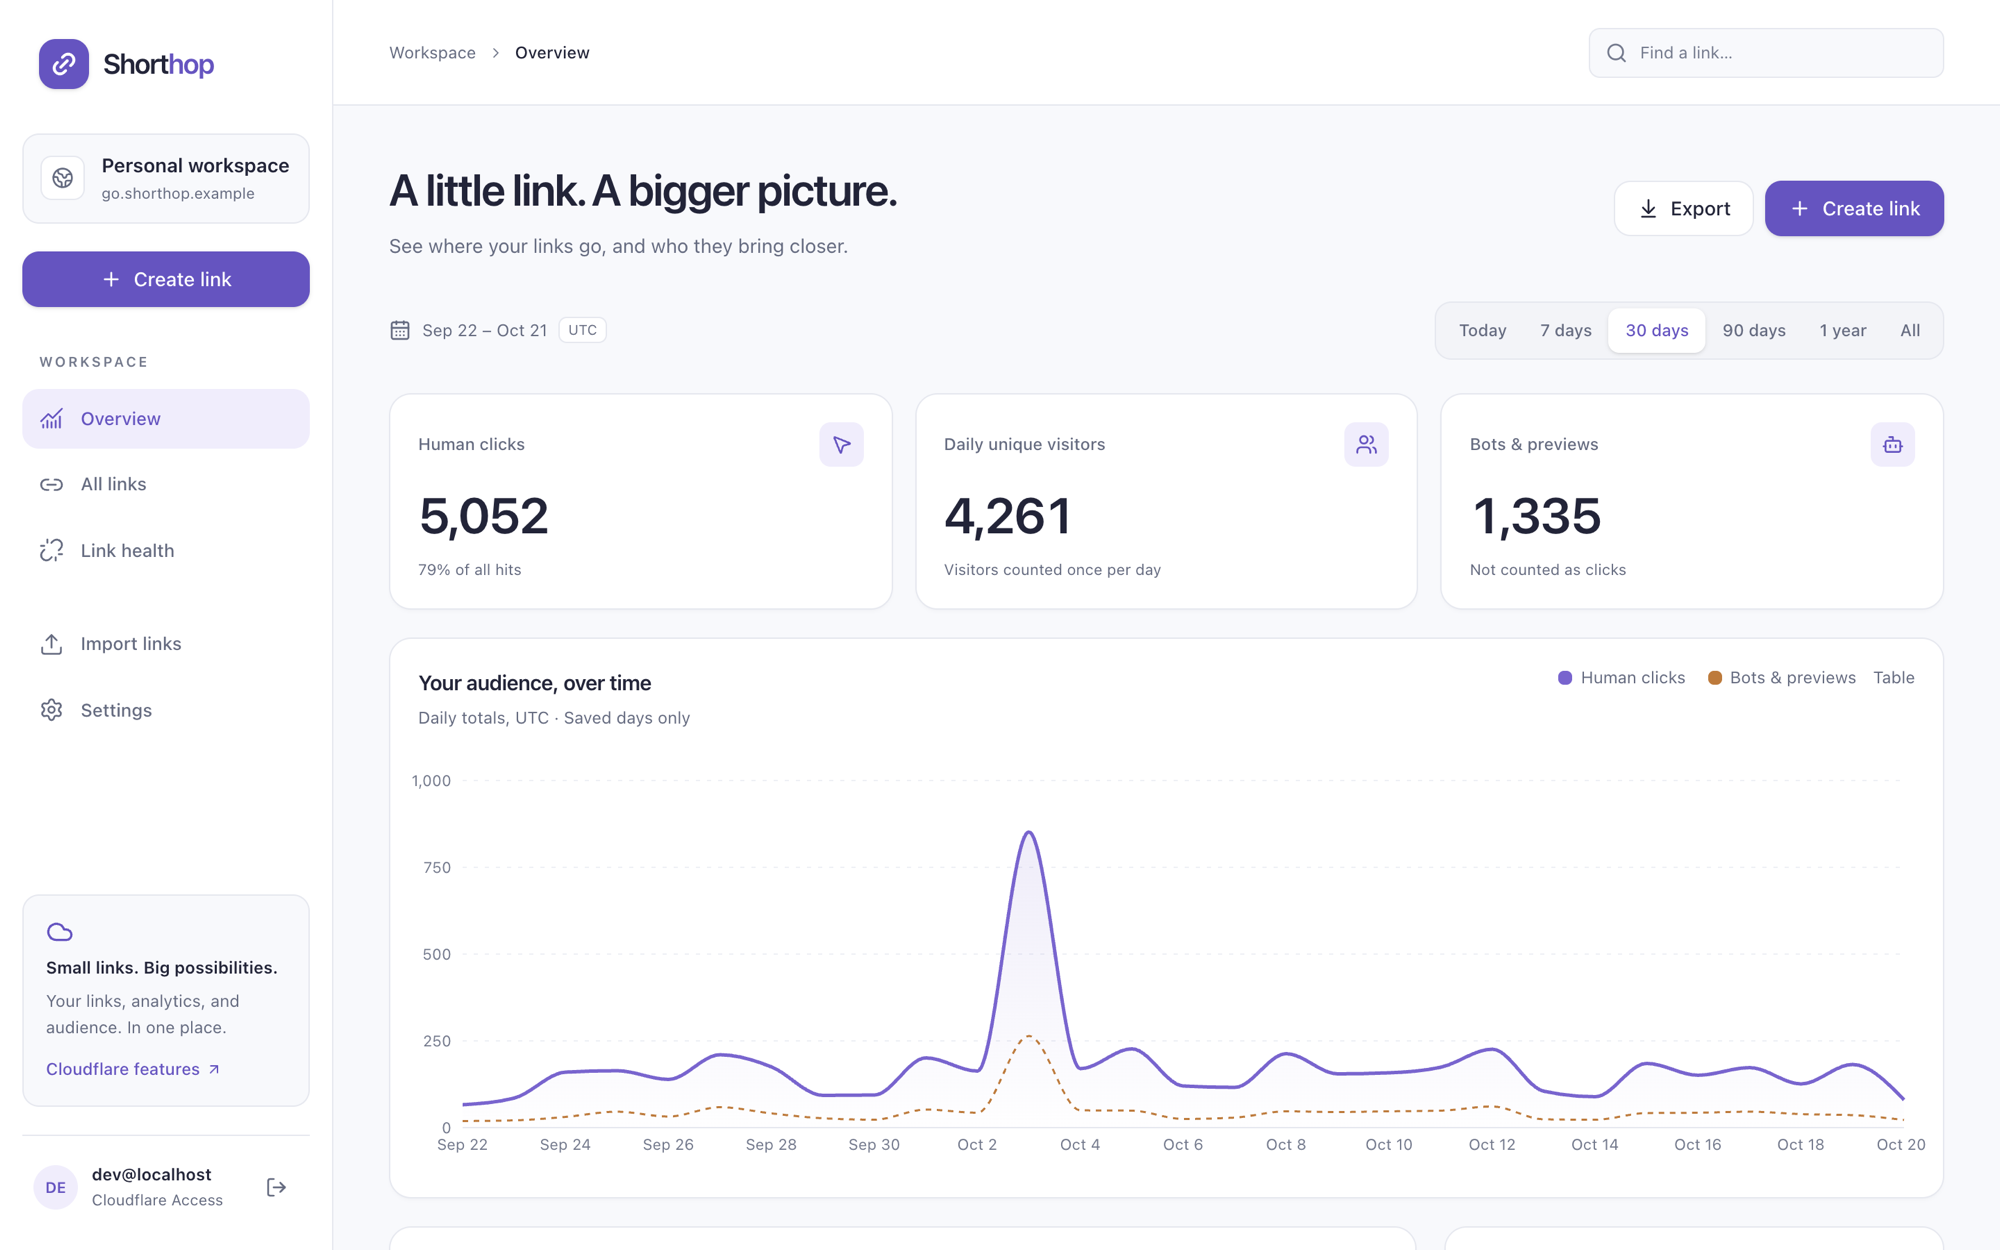
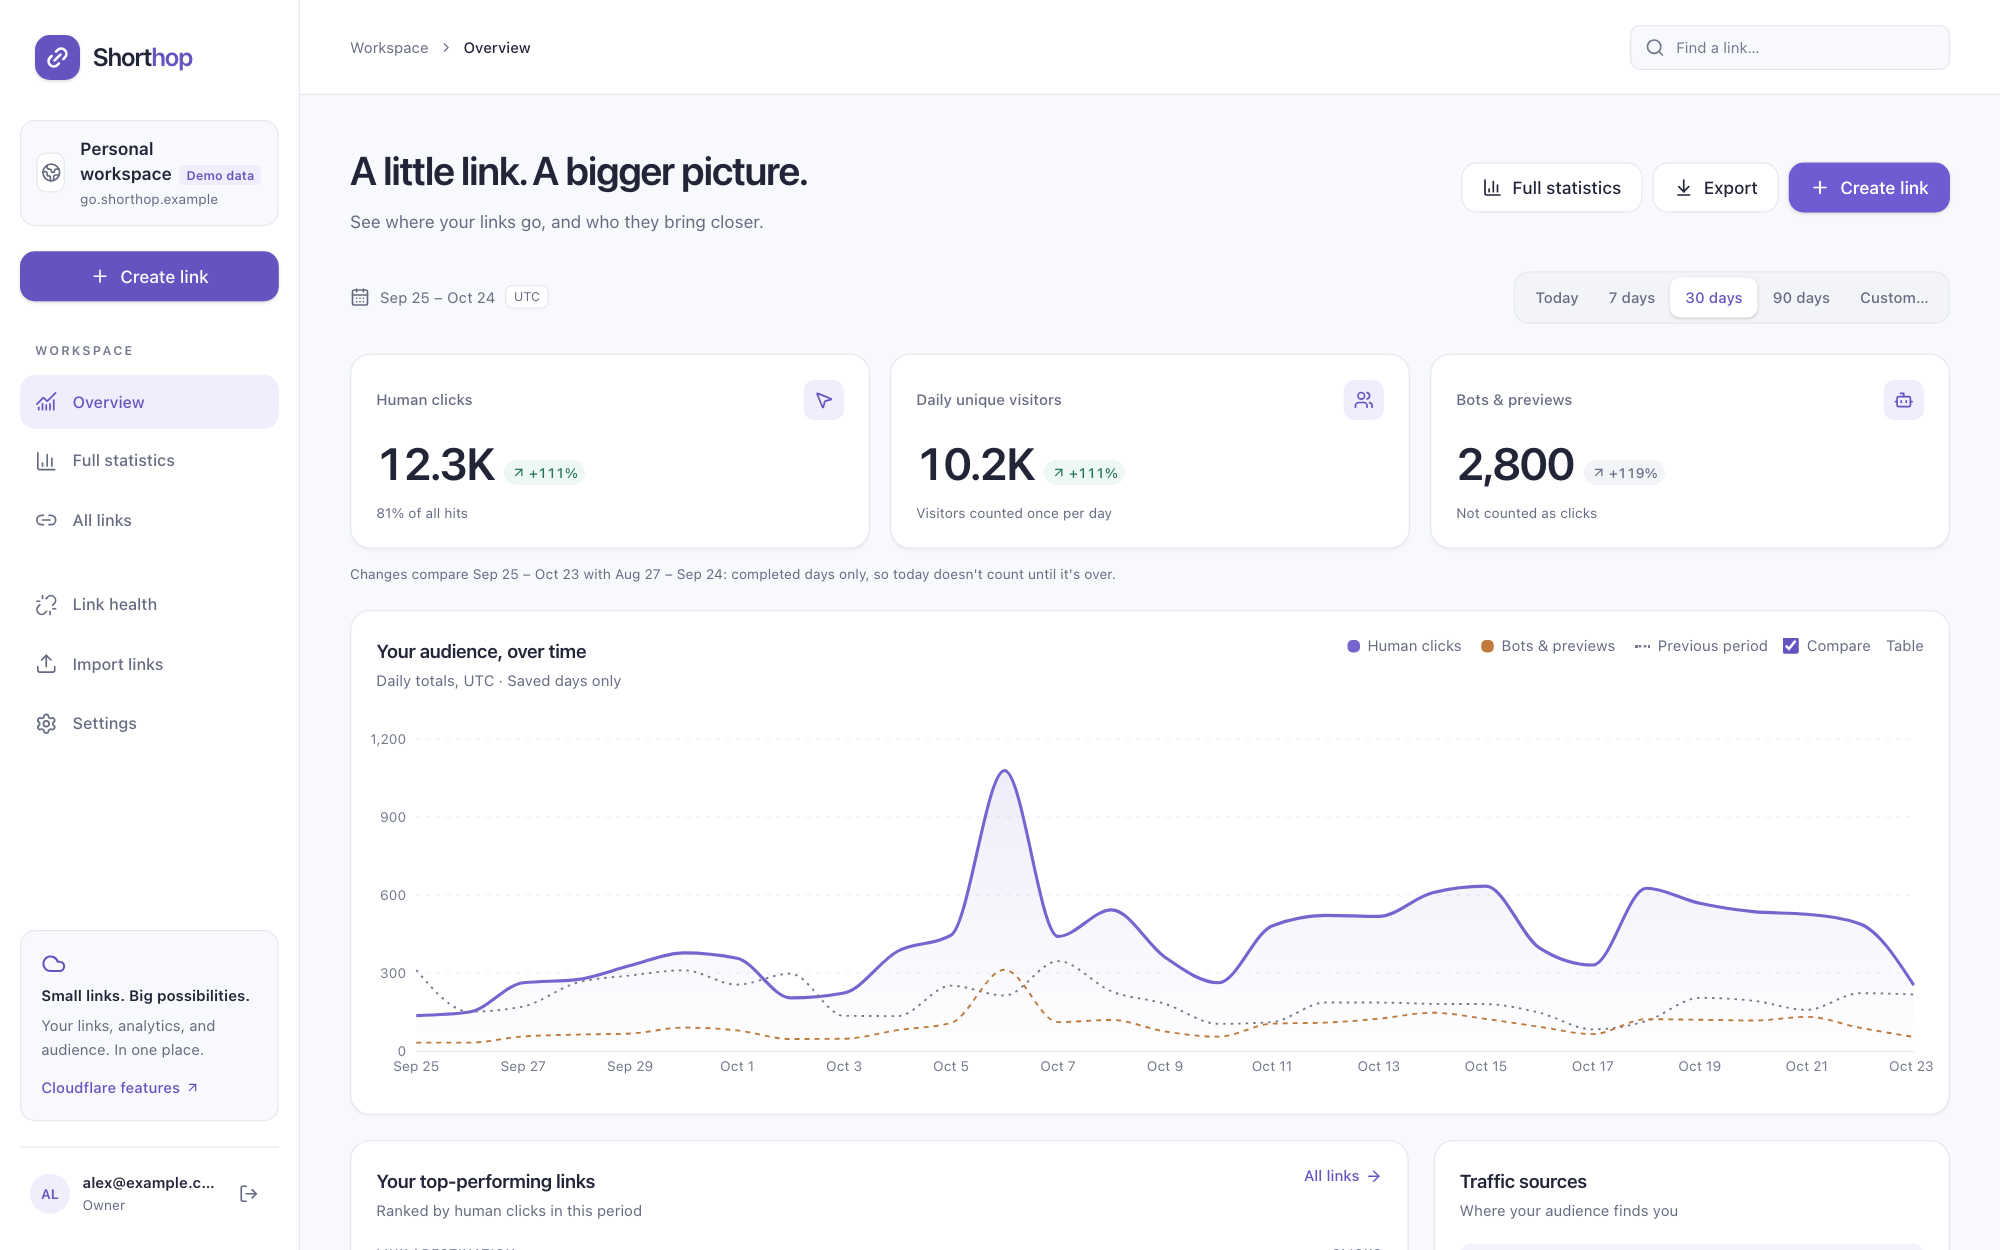
README: features grouped by area and new screenshots of every part of the admin

diff --git a/README.md b/README.md
@@ -6,36 +6,71 @@
 
 [![Deploy to Cloudflare](https://deploy.workers.cloudflare.com/button)](https://deploy.workers.cloudflare.com/?url=https://github.com/jntegz/shorthop)
 
-A personal URL shortener that runs on one Cloudflare Worker. Short links on your own domains, click analytics without a paid geo service, a private admin, and a weekly email digest. For most personal use it fits inside Cloudflare's free allowances.
+A personal URL shortener that runs on one Cloudflare Worker. Short links on your own domains, click analytics without cookies or a paid geo service, smart routing, QR codes, destination checks, and a private admin for you and the people you invite. For most personal use it fits inside Cloudflare's free allowances.
 
-**Shorthop is built primarily for Cloudflare.** It uses Workers, Workers KV, D1, Analytics Engine, Cloudflare Access and Cloudflare Email Service directly; it isn't a portable app with a Cloudflare adapter. You need a Cloudflare account and at least one domain on it.
+**Shorthop is built primarily for Cloudflare.** It uses Workers, Workers KV, D1, Analytics Engine, Durable Objects, Cloudflare Access and Cloudflare Email Service directly; it isn't a portable app with a Cloudflare adapter. You need a Cloudflare account and at least one domain on it.
 
-![The Shorthop dashboard: clicks, unique visitors and bots over the last 30 days](docs/images/dashboard.png)
+![The Shorthop overview: human clicks, daily unique visitors and bots over 30 days, compared with the previous period](docs/images/dashboard.png)
+
+[Features](#features) · [Screenshots](#screenshots) · [Quick start](#quick-start) · [Documentation](#documentation) · [Costs](#costs) · [Security model](#security-model) · [FAQ](#faq)
+
+## Features
+
+### Links
 
 - **Fast redirects:** one KV read, then a `302`. Analytics is written after the response, so it never slows down or breaks a click.
-- **Analytics:** country, region, city, device, OS, browser, referrer, source tag and language per click. Humans, bots and misses are counted separately. No IP addresses or cookies are stored. Unique visitors are counted with a daily hash whose random salt is deleted once the day is over. See [visitor privacy](docs/PRIVACY.md).
-- **History:** a daily job saves each day into D1, so stats outlive Analytics Engine's 90-day retention.
-- **Admin at `/_admin`:** create, edit, disable, expire, tag and search links; per-link stats and a full statistics page, for any date range, compared with the previous period; CSV import and export; a report of missed slugs; a custom 404 page; a page for links that no longer work, pointing visitors to a replacement; a System status page with setup checks.
-- **Link history:** every change is saved as a version with who made it, and any earlier version can be restored. Deleted links can be brought back for 90 days.
+- **Several domains:** each short domain has its own slugs and stats. The admin can live on the primary domain or on a separate host.
+- **Admin at `/_admin`:** create, edit, disable, expire, tag and search links, with custom slugs and a live preview of the short link.
 - **Smart routing:** rules by device (iPhone & iPad, Android, desktop, other) and country, first match wins, with A/B splits across up to 10 weighted destinations. A simulator in the editor, and results per rule and variant on the link page. Bots and previews get the default destination; no cookies.
 - **Social previews:** your own title, description and image for LinkedIn, Slack, X, iMessage and other link previews, with mockups while you edit.
 - **UTM builder:** one field per parameter, saved presets, and a preview of the URL visitors land on.
-- **QR studio:** colours with a contrast check, dot and corner shapes, a logo, frames with a caption, a live scan test, SVG or PNG up to 4096 px, print sheets, and a ZIP of every link's code.
+- **QR studio:** colours with a contrast check, dot and corner shapes, a logo, frames with a caption, a live scan test, SVG or PNG up to 4096 px, print sheets, and a ZIP of every link's code. Scans count as their own source.
 - **Password-protected links and click limits:** visitors enter a password first, or a link stops after a set number of clicks, counted exactly by a Durable Object. Bots and previews don't count.
-- **Link health:** destination checks for the links you pick (**Check that the destination works**, off by default), once you turn automatic checking on and choose how often. A destination that fails 3 times in a row sends one email and gets a Fix dialog.
-- **Webhooks:** signed events for links created, changed or deleted, destinations down or back, and click milestones, with retries and a delivery log.
+- **Links that no longer work:** mark one as retired and pick a replacement. Visitors get a page with a button to it, or are sent on to your site after a few seconds. Unknown slugs get your own 404 page.
+- **Link history:** every change is saved as a version with who made it, and any earlier version can be restored. Deleted links can be brought back for 90 days.
+- **Import and export:** CSV import with column mapping, for moving from another shortener (old click counts are kept), and CSV export of links and daily stats.
+
+### Analytics
+
+- **Per click:** country, region, city, device, OS, browser, referrer, source tag and language. Humans, bots and misses are counted separately.
+- **Private by design:** no IP addresses or cookies are stored. Unique visitors are counted with a daily hash whose random salt is deleted once the day is over. See [visitor privacy](docs/PRIVACY.md).
+- **Any period:** today, 7, 30 or 90 days, 6 to 12 months, all time or any dates, compared with the previous period. Per link, or every link together on the Full statistics page.
+- **Kept for good:** a daily job saves each day into D1, so stats outlive Analytics Engine's 90-day retention.
+
+### Keeping links working
+
+- **Link health:** destination checks for the links you pick (**Check that the destination works**, off by default), once you turn automatic checking on and choose how often. A destination that fails 3 times in a row sends one email and gets a Fix dialog. Sites that refuse automated checks show as "can't check" and never alert.
+- **Missed visits:** a report of slugs people tried that don't exist, with scanners and bots kept apart, so you can create the link someone mistyped.
+- **System status:** setup checks for storage, analytics, email, domains and sign-in, with an alert email when something breaks.
+- **Weekly digest and alerts:** by Cloudflare Email Service, Resend, Emailit, Postmark, SendGrid, Mailgun, any other JSON email API, or a signed webhook.
+
+### People and automation
+
 - **People and roles:** with Cloudflare Access, add people as admins, managers or users, each with their own password and the permissions you tick. Pause someone until a date, sign them out everywhere, and let them reset a forgotten password by email. An optional Cloudflare Turnstile check guards the password pages.
 - **API at `/api`:** personal API keys for scripts, Zapier or Make and an [iOS Shortcut](docs/ios-shortcut.md). A key does only what it was given, can expire, and stops working when it's revoked.
-- **Several domains:** each short domain has its own slugs and stats. The admin can live on the primary domain or on a separate host.
-- **Weekly digest and alerts:** by Cloudflare Email Service, Resend, Postmark, SendGrid, Mailgun or a signed webhook.
+- **Webhooks:** signed events for links created, changed or deleted, destinations down or back, and click milestones, with retries and a delivery log.
 
-| Links | Link statistics |
+## Screenshots
+
+| All links | One link |
 |---|---|
-| ![All links with tags, click counts and status](docs/images/links.png) | ![One link's statistics, QR code and edit actions](docs/images/link-detail.png) |
-| **Short domains** | **Custom 404 page** |
-| ![Settings → Short domains: the domain list, Remove, and a guided setup for a new domain](docs/images/settings-domains.png) | ![The not-found page visitors see for an unknown slug](docs/images/not-found.png) |
+| ![All links with tags, badges for smart, protected and limited links, click counts and status](docs/images/links.png) | ![A link page: actions, the destination check and its statistics](docs/images/link-detail.png) |
+| **Smart routing rules** | **Where routed visitors went** |
+| ![The smart routing editor: an A/B split for desktop visitors and the simulator](docs/images/routing.png) | ![Smart routing results: clicks per rule and per A/B variant](docs/images/routing-results.png) |
+| **Social preview** | **QR studio** |
+| ![The social preview editor with an uploaded image and a LinkedIn mockup](docs/images/social-preview.png) | ![The QR studio: purple dots, rounded corners and a caption, with a scan test](docs/images/qr.png) |
+| **Full statistics** | **Link health** |
+| ![Full statistics: countries, cities, sources, referrers, devices and operating systems](docs/images/stats.png) | ![Link health: destinations that work, one that doesn't with a Fix button, and one that can't be checked](docs/images/link-health.png) |
+| **People and roles** | **Short domains** |
+| ![Settings → People: an owner, an admin, a manager and users, one of them paused](docs/images/people.png) | ![Settings → Short domains: the domain list and a guided setup for a new domain](docs/images/settings-domains.png) |
 
-<sub>Screenshots from local development with `npm run seed:dev` sample data.</sub>
+What visitors see:
+
+| Password-protected link | Link no longer working | Unknown slug |
+|---|---|---|
+| ![The password page of a protected link](docs/images/link-password.png) | ![A retired link's page, pointing to its replacement](docs/images/link-retired.png) | ![The custom 404 page](docs/images/not-found.png) |
+
+<sub>Screenshots from local development with sample links and made-up stats.</sub>
 
 ## Quick start
 
@@ -138,7 +173,7 @@ npm run types            # then regenerate worker-configuration.d.ts
 | `ADMIN_EMAIL` | var | The Access identities allowed in (comma-separated) |
 | `CF_ACCOUNT_ID` | var | For Analytics Engine SQL queries |
 | `AE_DATASET` | var | The Analytics Engine dataset name (letters, digits, `_`) |
-| `WORKERS_PLAN` | var | `free` or `paid`; System status checks the password hash cost against it |
+| `WORKERS_PLAN` | var | `free` or `paid`. Sizes bulk work (republish pages, import batches, destination checks per run) to the plan's 50 or 10,000 calls per invocation, and System status checks the password hash cost against it |
 | `API_TOKEN_SCOPE` | var | `create` (default): the API token reads, creates links and imports new ones. `full`: it can also change and delete links and settings. Anything else means `create` |
 | `KV_CACHE_TTL` | var | Edge cache for slug lookups in seconds (default 60; values under 30 fall back to 60) |
 | `DIGEST_PROVIDER` | var | Default delivery: `cloudflare`, `resend`, `emailit`, `postmark`, `sendgrid`, `mailgun`, `custom`, `webhook` or `off`. Settings → Statistics & email → Weekly digest → **Set up email** can override it (and `DIGEST_FROM`) without a deploy |
